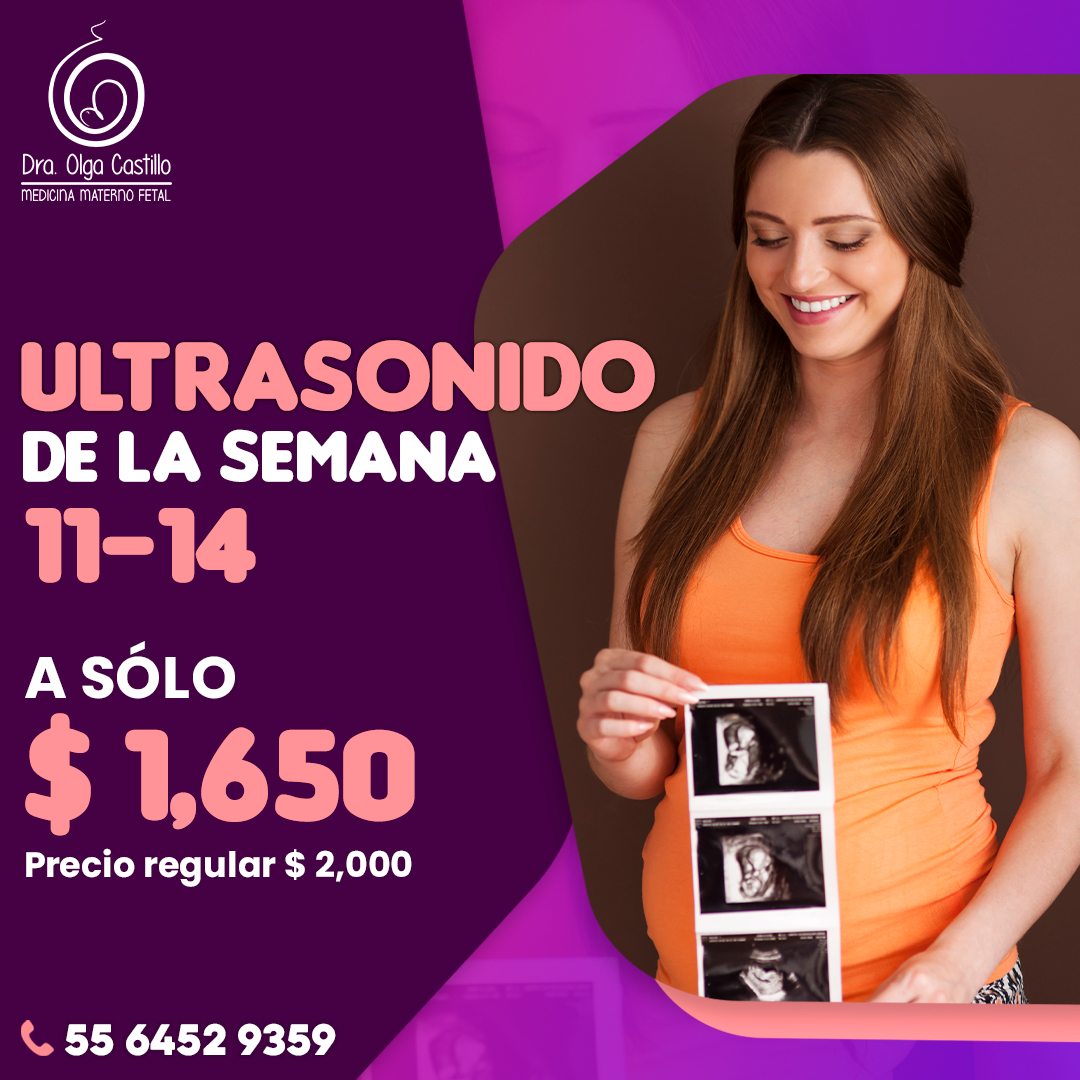
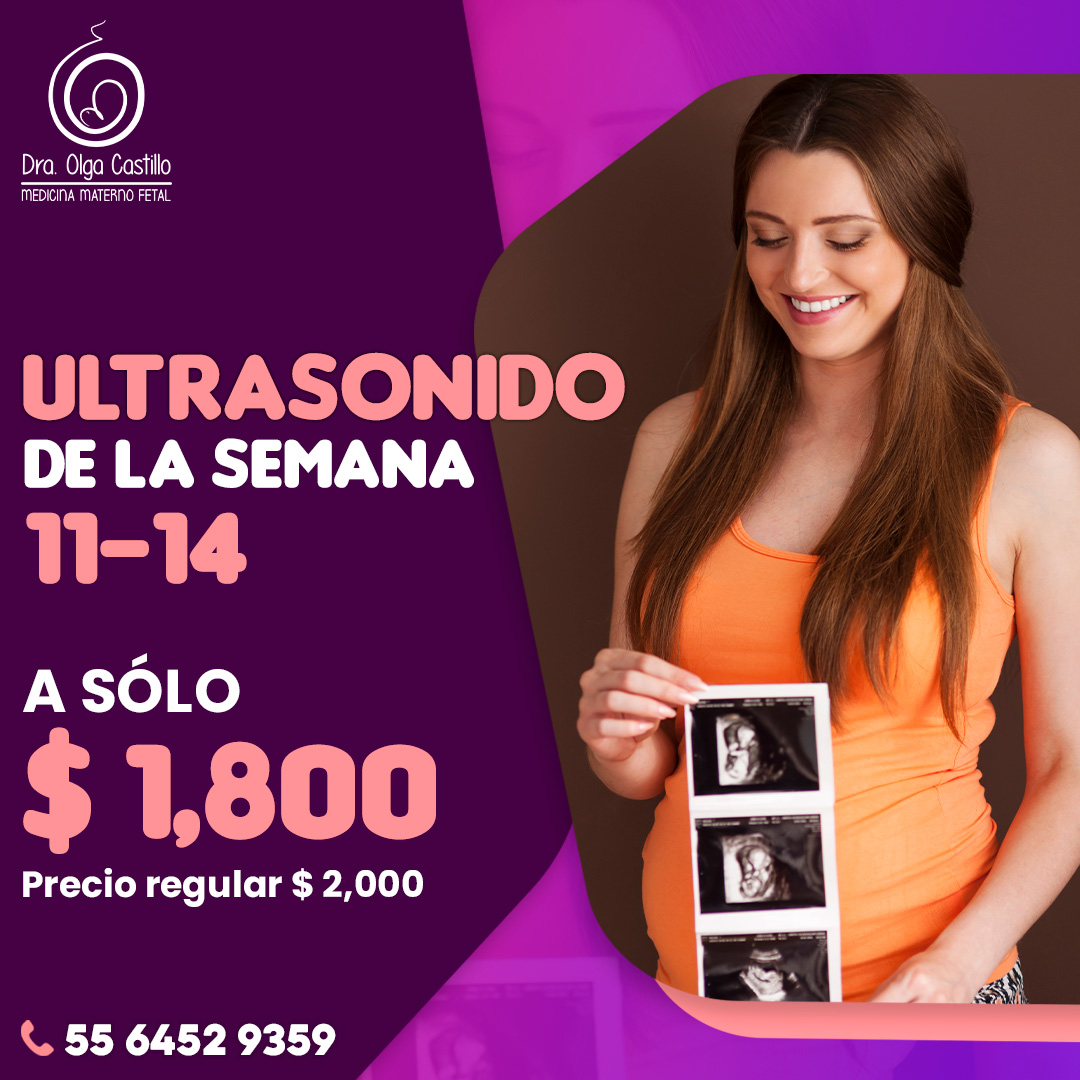
promociones: se actualizaron los precios

Changed region(s): [[0.0, 0.3056, 0.6111, 0.55], [0.0, 0.5806, 0.4278, 0.8556]]

diff --git a/index.html b/index.html
@@ -133,7 +133,7 @@
     
       <section class="slider" id="promociones">
         <h2>Promociones</h2>
-       <!-- Swiper -->
+      <!-- Swiper -->
         <div class="container_promociones">
           <div class="item_promo">
             <img src="imagenes/PROMOSOLGA1.jpg" alt="">
@@ -141,10 +141,6 @@
           </div>
           <div class="item_promo">
             <img src="imagenes/PROMOSOLGA2.jpg" alt="">
-            <a href="https://wa.me/525564529359" target="_blank" >Contacto</a>
-          </div>
-          <div class="item_promo">
-            <img src="imagenes/PROMOSOLGA3.jpg" alt="">
             <a href="https://wa.me/525564529359" target="_blank" >Contacto</a>
           </div>
         </div>

diff --git a/css/styles.css b/css/styles.css
@@ -337,12 +337,13 @@ header{
 }
 .container_promociones{
     display: grid;
-    grid-template-columns: repeat(3, 1fr);
+    grid-template-columns: repeat(2, minmax(300px, 400px));
     gap: 30px;
     width: 90%;
     text-align: center;
     margin: auto;
     padding: 10px 0px 20px 0px;
+    justify-content: center;
 }
 .item_promo img{
     max-width: 100%;
